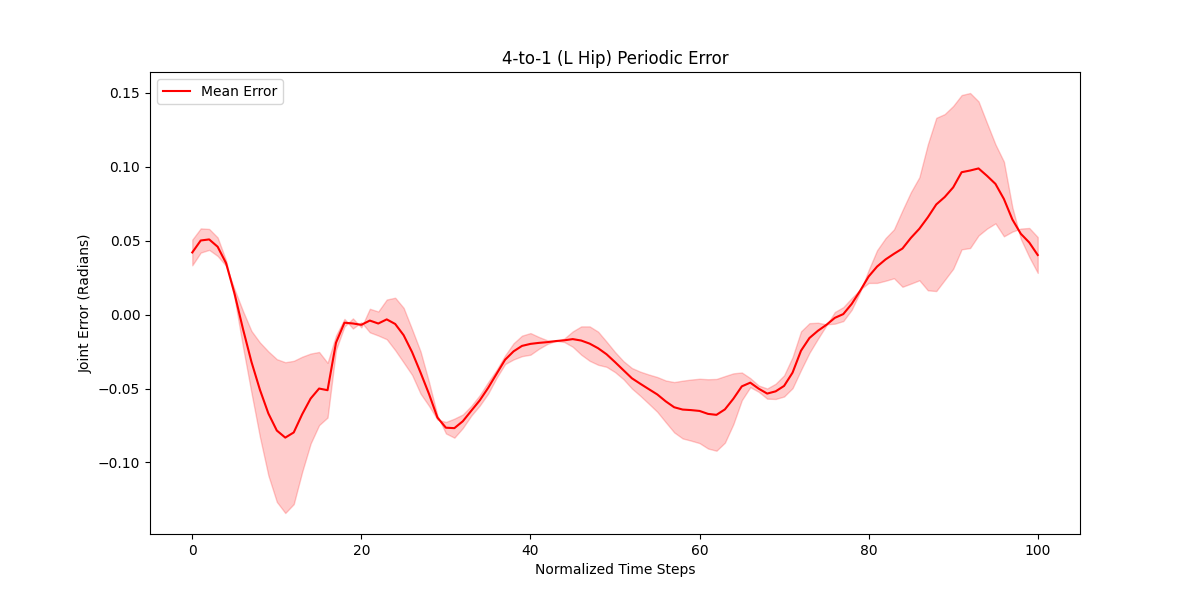
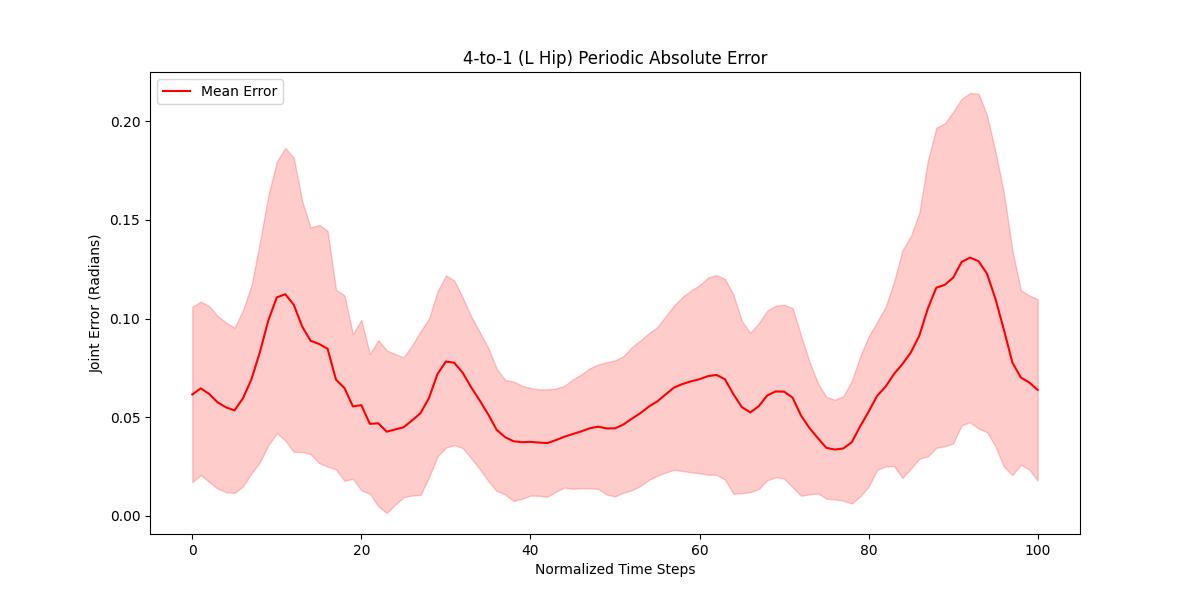
Fixed periodic error, updated plots

diff --git a/lstm_4to1/validation.py b/lstm_4to1/validation.py
@@ -16,7 +16,7 @@ therapist = pd.read_csv('X2_SRA_B_07-05-2024_10-41-46-mod-sync.csv',
 
 # Prepare data
 patient_data = patient[['JointPositions_1', 'JointPositions_2', 'JointPositions_3', 'JointPositions_4']].values.astype('float32')
-therapist_data = therapist[['JointPositions_2']].values.astype('float32')
+therapist_data = therapist[['JointPositions_1']].values.astype('float32')
 timeseries = np.column_stack((patient_data, therapist_data))
 
 # Validation split
@@ -55,7 +55,7 @@ class JointModel(nn.Module):
 
 # Load model
 model = JointModel()
-model.load_state_dict(torch.load('trial2/j2/lstm_model_epoch7.pth'))
+model.load_state_dict(torch.load('trial2/j1/lstm_model_epoch32.pth'))
 model.eval()
 
 # Validation
@@ -93,9 +93,9 @@ with torch.no_grad():
 
 # Overlay of periodic data
 # Find peaks in the therapist data and divide into periodic segments
-data_peaks, _ = find_peaks(-therapist_true, height=1.0, distance=1000)  # ONLY NEGATIVE FOR KNEES (2,4), Heights: J13=1.0, J24=1.4, J31=0.4, J42=1.0
+data_peaks, _ = find_peaks(therapist_true, height=0.6, distance=1000)  # ONLY NEGATIVE FOR KNEES (2,4), Heights: J13=1.0, J24=1.4, J31=0.4, J42=1.0
 periodic_data = [therapist_true[data_peaks[i]:data_peaks[i+1]] for i in range(len(data_peaks)-1)]
-pred_peaks, _ = find_peaks(-therapist_pred, height=1.0, distance=1000)  # ONLY NEGATIVE FOR KNEES (2,4), Heights: J13=1.0, J24=1.4, J31=0.4, J42=1.0
+pred_peaks, _ = find_peaks(therapist_pred, height=0.6, distance=1000)  # ONLY NEGATIVE FOR KNEES (2,4), Heights: J13=1.0, J24=1.4, J31=0.4, J42=1.0
 periodic_pred = [therapist_pred[pred_peaks[i]:pred_peaks[i+1]] for i in range(len(pred_peaks)-1)]
 
 # Normalize periodic data
@@ -122,35 +122,38 @@ mean_data = np.mean(stacked_data, axis=0)
 mean_pred = np.mean(stacked_pred, axis=0)
 std_data = np.std(stacked_data, axis=0)
 std_pred = np.std(stacked_pred, axis=0)
+print(f'Stacked Data Size: {stacked_data.shape}')
+print(f'Stacked Pred Size: {stacked_pred.shape}')
 
-# Get errors for periodic data
-mean_err = mean_data - mean_pred
-std_err = std_data - std_pred
+# # Get errors for periodic data
+# # Must stay commented out until periodic data is set correctly
+mean_err = np.mean(abs(stacked_data - stacked_pred), axis=0)
+std_err = np.std(abs(stacked_data - stacked_pred), axis=0)
 
 # ALL PLOTTING HAPPENS BELOW HERE. READ INSTRUCTIONS FOR CREATING BEST PLOTS
 # Plot histogram of errors
-plt.figure(figsize=(12, 6))
-plt.hist(errors, bins=50, alpha=0.7, color='blue')
-plt.xlabel('Error (Radians)')
-plt.ylabel('# of Occurrences')
-plt.title(f'4-to-1 (L Knee) Distribution of Prediction Errors, RMSE: {valid_rmse:.4f}, Max (abs): {abs(errors).max():.4f}, Std Dev: {errors.std():.4f}, Mean: {errors.mean():.4f}')
-plt.grid(True)
-plt.show()
+# plt.figure(figsize=(12, 6))
+# plt.hist(errors, bins=50, alpha=0.7, color='blue')
+# plt.xlabel('Error (Radians)')
+# plt.ylabel('# of Occurrences')
+# plt.title(f'4-to-1 (L Hip) Distribution of Prediction Errors, RMSE: {valid_rmse:.4f}, Max (abs): {abs(errors).max():.4f}, Std Dev: {errors.std():.4f}, Mean: {errors.mean():.4f}')
+# plt.grid(True)
+# plt.show()
 
 # Plot only validation data with prediction overlay
 # Change xlim for desired time steps
 # Limit to 7500 time steps (~30 seconds) EXCEPT when determining amplitude for periodic plots
-plt.figure(figsize=(12, 6))
-plt.plot(therapist_true, c='b', label='True Therapist Data')
-plt.plot(therapist_pred, c='r', linestyle='--', label='Predicted Therapist Data')
-# plt.plot(valid[:, 0], c='g', alpha=0.75, label='Patient Data (input)')
-plt.xlim(0, 7500)
-plt.xlabel('Time Steps (~4ms)')
-plt.ylabel('Joint Positions (Radians)')
-plt.legend()
-plt.title("Validation: Therapist L Knee Prediction from Patient Data")
-plt.show()
-# plt.savefig('lstm_therapist_prediction.png', dpi=300, bbox_inches='tight')
+# plt.figure(figsize=(12, 6))
+# plt.plot(therapist_true, c='b', label='True Therapist Data')
+# plt.plot(therapist_pred, c='r', linestyle='--', label='Predicted Therapist Data')
+# # plt.plot(valid[:, 0], c='g', alpha=0.75, label='Patient Data (input)')
+# # plt.xlim(0, 7500)
+# plt.xlabel('Time Steps (~4ms)')
+# plt.ylabel('Joint Positions (Radians)')
+# plt.legend()
+# plt.title("Validation: Therapist L Knee Prediction from Patient Data")
+# plt.show()
+# # plt.savefig('lstm_therapist_prediction.png', dpi=300, bbox_inches='tight')
 
 # # Plot error over time
 # plt.figure(figsize=(12, 6))
@@ -193,7 +196,7 @@ plt.fill_between(range(normalized_length),
                  mean_err - std_err, 
                  mean_err + std_err, 
                  color='r', alpha=0.2)
-plt.title("4-to-1 (L Knee) Periodic Error")
+plt.title("4-to-1 (L Hip) Periodic Absolute Error")
 plt.ylabel('Joint Error (Radians)')
 
 plt.legend()
